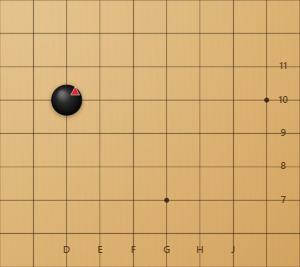
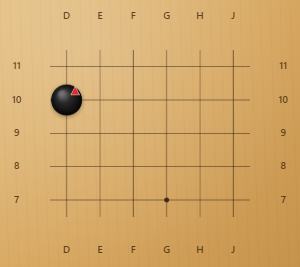
Clip exported goban to the selected rectangle

diff --git a/src/renderer.js b/src/renderer.js
@@ -3435,7 +3435,7 @@
 
   function drawPictureCoordinates(context, layout) {
     const {
-      outWidth, outHeight, coordPad, scale, cropLeft, cropTop, pad, dpr,
+      outWidth, outHeight, coordPad, scale, cropLeft, cropTop, dpr,
       minGX, maxGX, minGY, maxGY,
     } = layout;
     if (!coordPad) return;
@@ -3447,28 +3447,30 @@
     const originX = boardView.originX * dpr;
     const originY = boardView.originY * dpr;
     const spacing = boardView.spacing * dpr;
-    const xFor = (cssX) => (pad + cssX * dpr - cropLeft) * scale;
-    const yFor = (cssY) => (pad + cssY * dpr - cropTop) * scale;
+    const xFor = (cssX) => (cssX * dpr - cropLeft) * scale;
+    const yFor = (cssY) => (cssY * dpr - cropTop) * scale;
     const fontSize = Math.max(9, Math.min(18, Math.round(spacing * scale * 0.3)));
     context.save();
     context.font = `500 ${fontSize}px ${BOARD_FONT}`;
     context.fillStyle = palette.label;
     context.textAlign = 'center';
     context.textBaseline = 'middle';
-    // Top and left labels are intentionally omitted in exported pictures:
-    // the selection can sit flush against those edges and the text would be
-    // clipped or touch the goban line. Right/bottom labels remain safely in
-    // the reserved outer gutter.
-    const bottomY = outHeight - (coordPad * 0.5) * scale;
-    const rightX = outWidth - (coordPad * 0.5) * scale;
+    const topY = (coordPad * 0.5) * scale;
+    const bottomY = outHeight - topY;
+    const leftX = (coordPad * 0.5) * scale;
+    const rightX = outWidth - leftX;
     for (let gx = minGX; gx <= maxGX; gx += 1) {
-      const bottomPoint = inverseBoardPoint(gx, maxGY);
       const x = xFor(boardView.originX + gx * boardView.spacing);
+      const topPoint = inverseBoardPoint(gx, minGY);
+      const bottomPoint = inverseBoardPoint(gx, maxGY);
+      context.fillText(pictureCoordinateLabel(topPoint, horizontalAxis, boardView.sourceRows), x, topY);
       context.fillText(pictureCoordinateLabel(bottomPoint, horizontalAxis, boardView.sourceRows), x, bottomY);
     }
     for (let gy = minGY; gy <= maxGY; gy += 1) {
-      const rightPoint = inverseBoardPoint(maxGX, gy);
       const yOut = yFor(boardView.originY + gy * boardView.spacing);
+      const leftPoint = inverseBoardPoint(minGX, gy);
+      const rightPoint = inverseBoardPoint(maxGX, gy);
+      context.fillText(pictureCoordinateLabel(leftPoint, verticalAxis, boardView.sourceRows), leftX, yOut);
       context.fillText(pictureCoordinateLabel(rightPoint, verticalAxis, boardView.sourceRows), rightX, yOut);
     }
     context.restore();
@@ -3525,15 +3527,8 @@
     // text is centred in this gutter so it cannot touch the goban edge line.
     const coordPad = showCoords ? Math.max(28 * dpr, spacing * 1.0) : 0;
     const pad = Math.ceil(margin + coordPad);
-    const padded = document.createElement('canvas');
-    padded.width = base.width + pad * 2;
-    padded.height = base.height + pad * 2;
-    const paddedContext = padded.getContext('2d');
-    fillPictureBackground(paddedContext, padded.width, padded.height);
-    paddedContext.drawImage(base, pad, pad);
-
-    const cropLeft = minX;
-    const cropTop = minY;
+    const cropLeft = minX - pad;
+    const cropTop = minY - pad;
     const cropWidth = (maxX - minX) + 2 * pad;
     const cropHeight = (maxY - minY) + 2 * pad;
     const outputScale = imageSize / Math.max(1, Math.max(cropWidth, cropHeight));
@@ -3545,10 +3540,16 @@
     const context = output.getContext('2d');
     context.imageSmoothingEnabled = true;
     context.imageSmoothingQuality = 'high';
+    fillPictureBackground(context, outWidth, outHeight);
+    // Draw ONLY the selected goban rectangle. Lines from neighbouring
+    // intersections must not leak into the margin or under coordinate labels.
+    const boardDestX = (minX - cropLeft) * outputScale;
+    const boardDestY = (minY - cropTop) * outputScale;
     context.drawImage(
-      padded,
-      cropLeft, cropTop, cropWidth, cropHeight,
-      0, 0, outWidth, outHeight,
+      base,
+      minX, minY, maxX - minX, maxY - minY,
+      boardDestX, boardDestY,
+      (maxX - minX) * outputScale, (maxY - minY) * outputScale,
     );
 
     if (showCoords) {
@@ -3558,7 +3559,7 @@
       const minGY = Math.round((Math.min(...selectedPoints.map((point) => point.y)) - boardView.originY * dpr) / spacing);
       const maxGY = Math.round((Math.max(...selectedPoints.map((point) => point.y)) - boardView.originY * dpr) / spacing);
       drawPictureCoordinates(context, {
-        outWidth, outHeight, coordPad, scale: outputScale, cropLeft, cropTop, pad, dpr,
+        outWidth, outHeight, coordPad, scale: outputScale, cropLeft, cropTop, dpr,
         minGX: Math.max(0, minGX), maxGX: Math.min(boardView.cols - 1, maxGX),
         minGY: Math.max(0, minGY), maxGY: Math.min(boardView.rows - 1, maxGY),
       });

diff --git a/README.md b/README.md
@@ -274,8 +274,9 @@ The File menu keeps the **last seven opened or saved SGF files** under **Recent 
   area**; **Automatically select best area** remains available as an explicit one-shot action.
 - Uncheck **Automatically select best area** (or start dragging) to choose a partial
   rectangle. The blue translucent overlay marks the selected region. In the exported picture,
-  coordinate labels are drawn only on the **right and bottom** edges, safely in the outer
-  gutter; top/left labels are omitted because the selection can sit flush against those edges.
+  the goban is clipped to the selected rectangle (no neighbouring lines leak into the margin),
+  and coordinate labels are drawn in a dedicated gutter on **all four sides** without touching
+  the goban lines.
 - While the picture dialog is open the board cursor becomes a **grab hand** (and a grabbing
   hand while dragging); the round stone hover ghost is suppressed.
 - **Add space** adds a grid-unit margin around the selection; **Image size** is the longest
@@ -583,8 +584,8 @@ layout and a 1100×1700 pass for the embed page:
 - imported two SGF files as branches (3 nodes total, two root children) and confirmed the
   imported node was current;
 - opened the **Save As Picture** dialog, confirmed it initially selected the full **13×13**
-  board, then exported a **6×5** region as a **300×267** / 70,554-byte PNG with right/bottom
-  coordinates in an outer gutter (top/left omitted to avoid the goban line);
+  board, then exported a **6×5** region as a **300×267** / 112,322-byte PNG with labels on all
+  four sides and goban lines clipped to the selected rectangle;
 - reopened the dialog and confirmed the previous **6×5** selection was restored; dragged a
   separate **6×7** manual region on the board, then exported a grayscale JPEG through the same
   dialog and confirmed `image/jpeg`;
